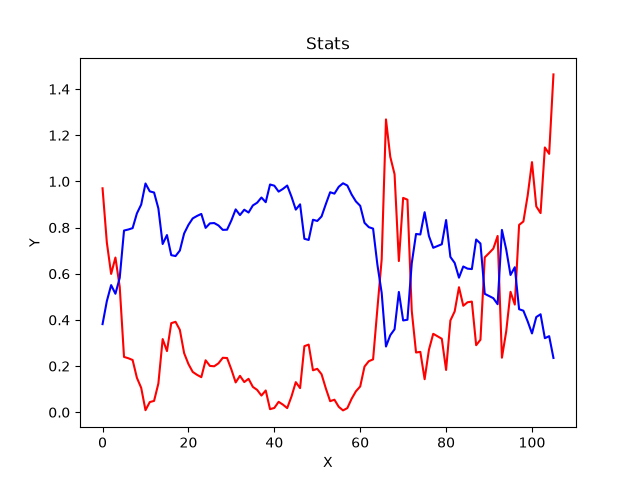
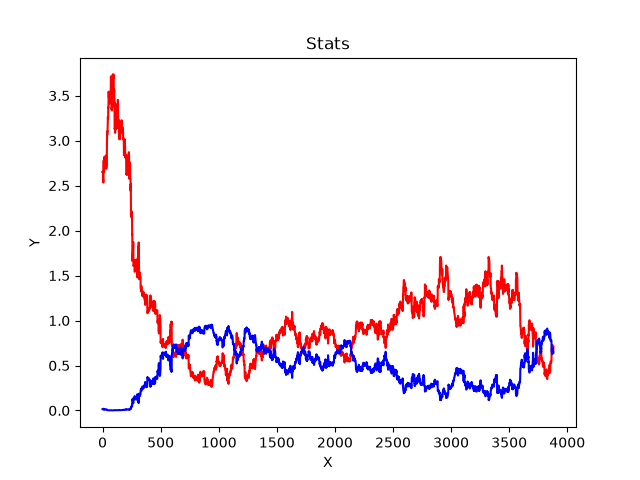
p

diff --git a/tests.py b/tests.py
@@ -137,8 +137,8 @@ if __name__ == "__main__":
     from dataset import load_dataset
     from visualize import plot_chow_stats
 
-    dataset = load_dataset("dataset")
-    X, Y = dataset['RM'] - dataset['RF'], dataset['Ri_AAPL'] - dataset['RF']
+    dataset = load_dataset("dataset").reset_index()
+    X, Y = dataset[['age', 'BMI', 'sodium', 'smoker', 'gender']], dataset['arterial_pressure']
     model = LinearRegressionModel(beta=None)
     model.train(X, Y)
     test = Chow_test(model)

diff --git a/main.py b/main.py
@@ -1,0 +1,14 @@
+from model import LinearRegressionModel
+from metrics import R_squared_real
+
+
+from dataset import load_dataset
+from visualize import plot_reg
+
+dataset = load_dataset("dataset").reset_index()
+X, Y = dataset[['age', 'BMI', 'sodium', 'smoker', 'gender']], dataset['arterial_pressure']
+model = LinearRegressionModel(beta=None)
+model.train(X, Y)
+res = model.get_stats()['residuals']
+
+print(R_squared_real(res, Y))

diff --git a/model.py b/model.py
@@ -60,8 +60,6 @@ if __name__ == "__main__":
     from visualize import plot_reg
 
     dataset = load_dataset("dataset").reset_index()
-    print(dataset.columns.tolist())
-    print(dataset.head())
     X, Y = dataset[['age', 'BMI', 'sodium', 'smoker', 'gender']], dataset['arterial_pressure']
     model = LinearRegressionModel(beta=None)
     model.train(X, Y)
